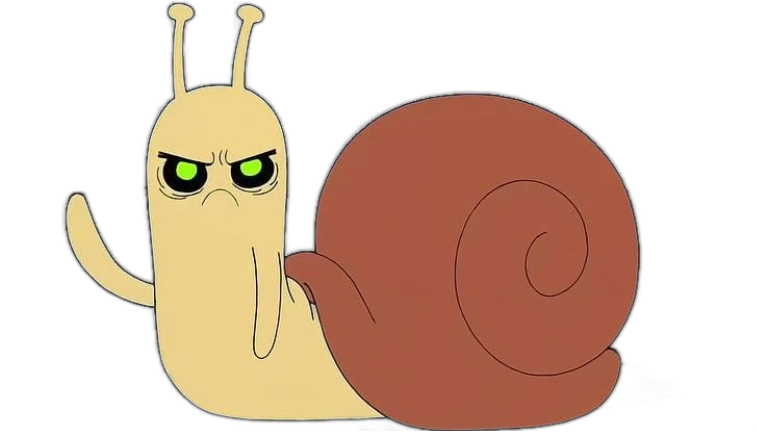
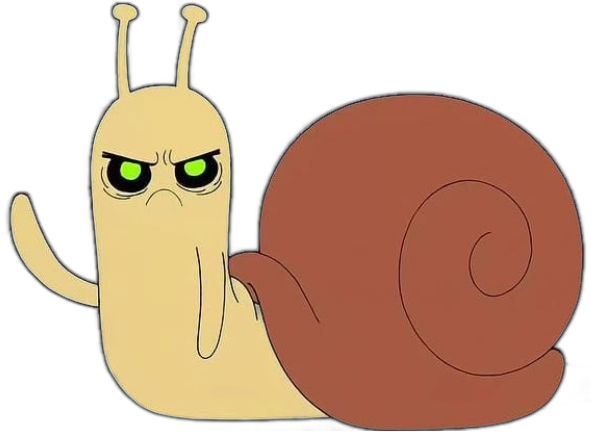
log in form css styling

diff --git a/frontend/src/components/LoginFormModal/index.js b/frontend/src/components/LoginFormModal/index.js
@@ -102,20 +102,27 @@ function LoginFormModal() {
             {displayPasErr && <p className='errors'>{err.password}</p>}
           </div>
 
-          <img
-            src={goodSnail}
-          />
-          <img
-            src={badSnail}
-          />
-
-
-          {/* {(displayPasErr || displayCredErr) && <div>
+          {/* no errors */}
+          {/* {(!displayPasErr && !displayCredErr) && <div> */}
             <img
-              className={`${Object.values(err).length > 0 ? 'displayOn' : 'displayOff'}`}
-              src={unacceptable}
+              className={`snailDimensions ${Object.values(err).length === 0 ? 'displayOn' : 'displayOff'}`}
+              src={goodSnail}
             />
-          </div>} */}
+          {/* </div>} */}
+
+          {/* errors */}
+          {(displayPasErr || displayCredErr) ? <div>
+            <img
+              className={`snailDimensions ${Object.values(err).length > 0 ? 'displayOn' : 'displayOff'}`}
+              src={badSnail}
+            />
+          </div> :
+          <img
+              className={`snailDimensions`}
+              src={goodSnail}
+            />
+          }
+
         </div>
         <div className='paddingTop displayFlex justifyCenter'>
           <button

diff --git a/frontend/src/components/LoginFormModal/LoginForm.css b/frontend/src/components/LoginFormModal/LoginForm.css
@@ -91,3 +91,9 @@ form {
 .textSize {
   font-size: 130%;
 }
+
+.snailDimensions {
+  width: 200px;
+  height: 200px;
+  border: 1px solid black;
+}
